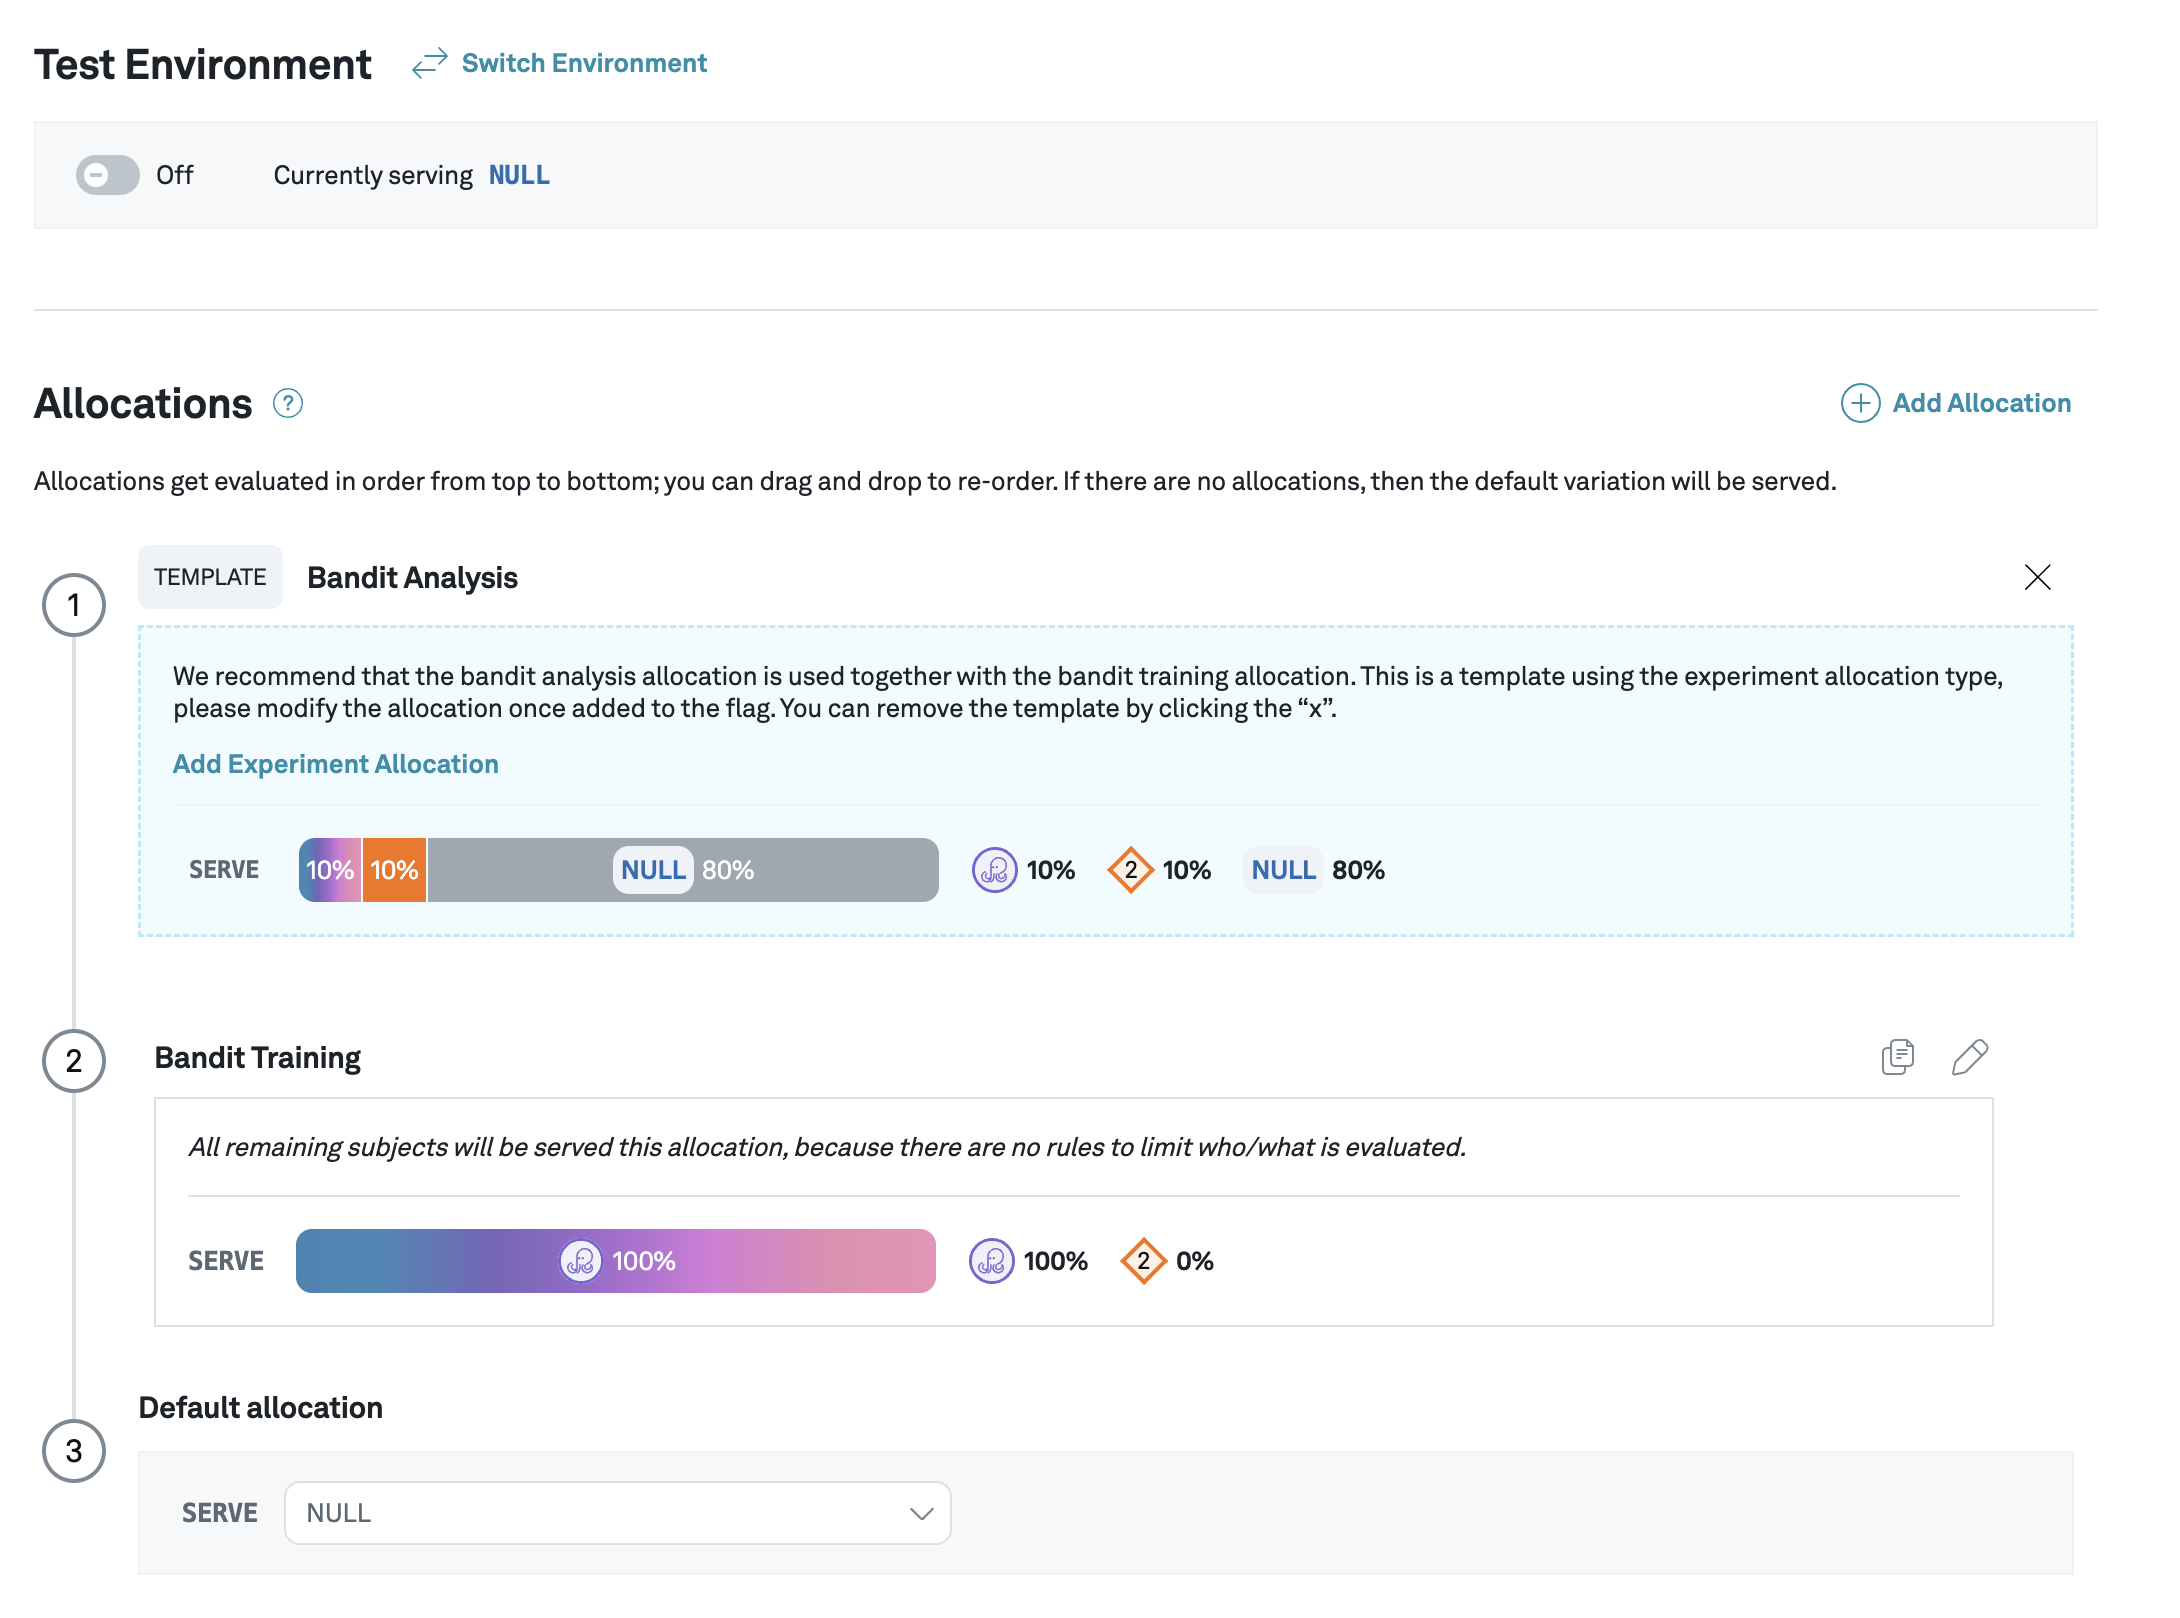
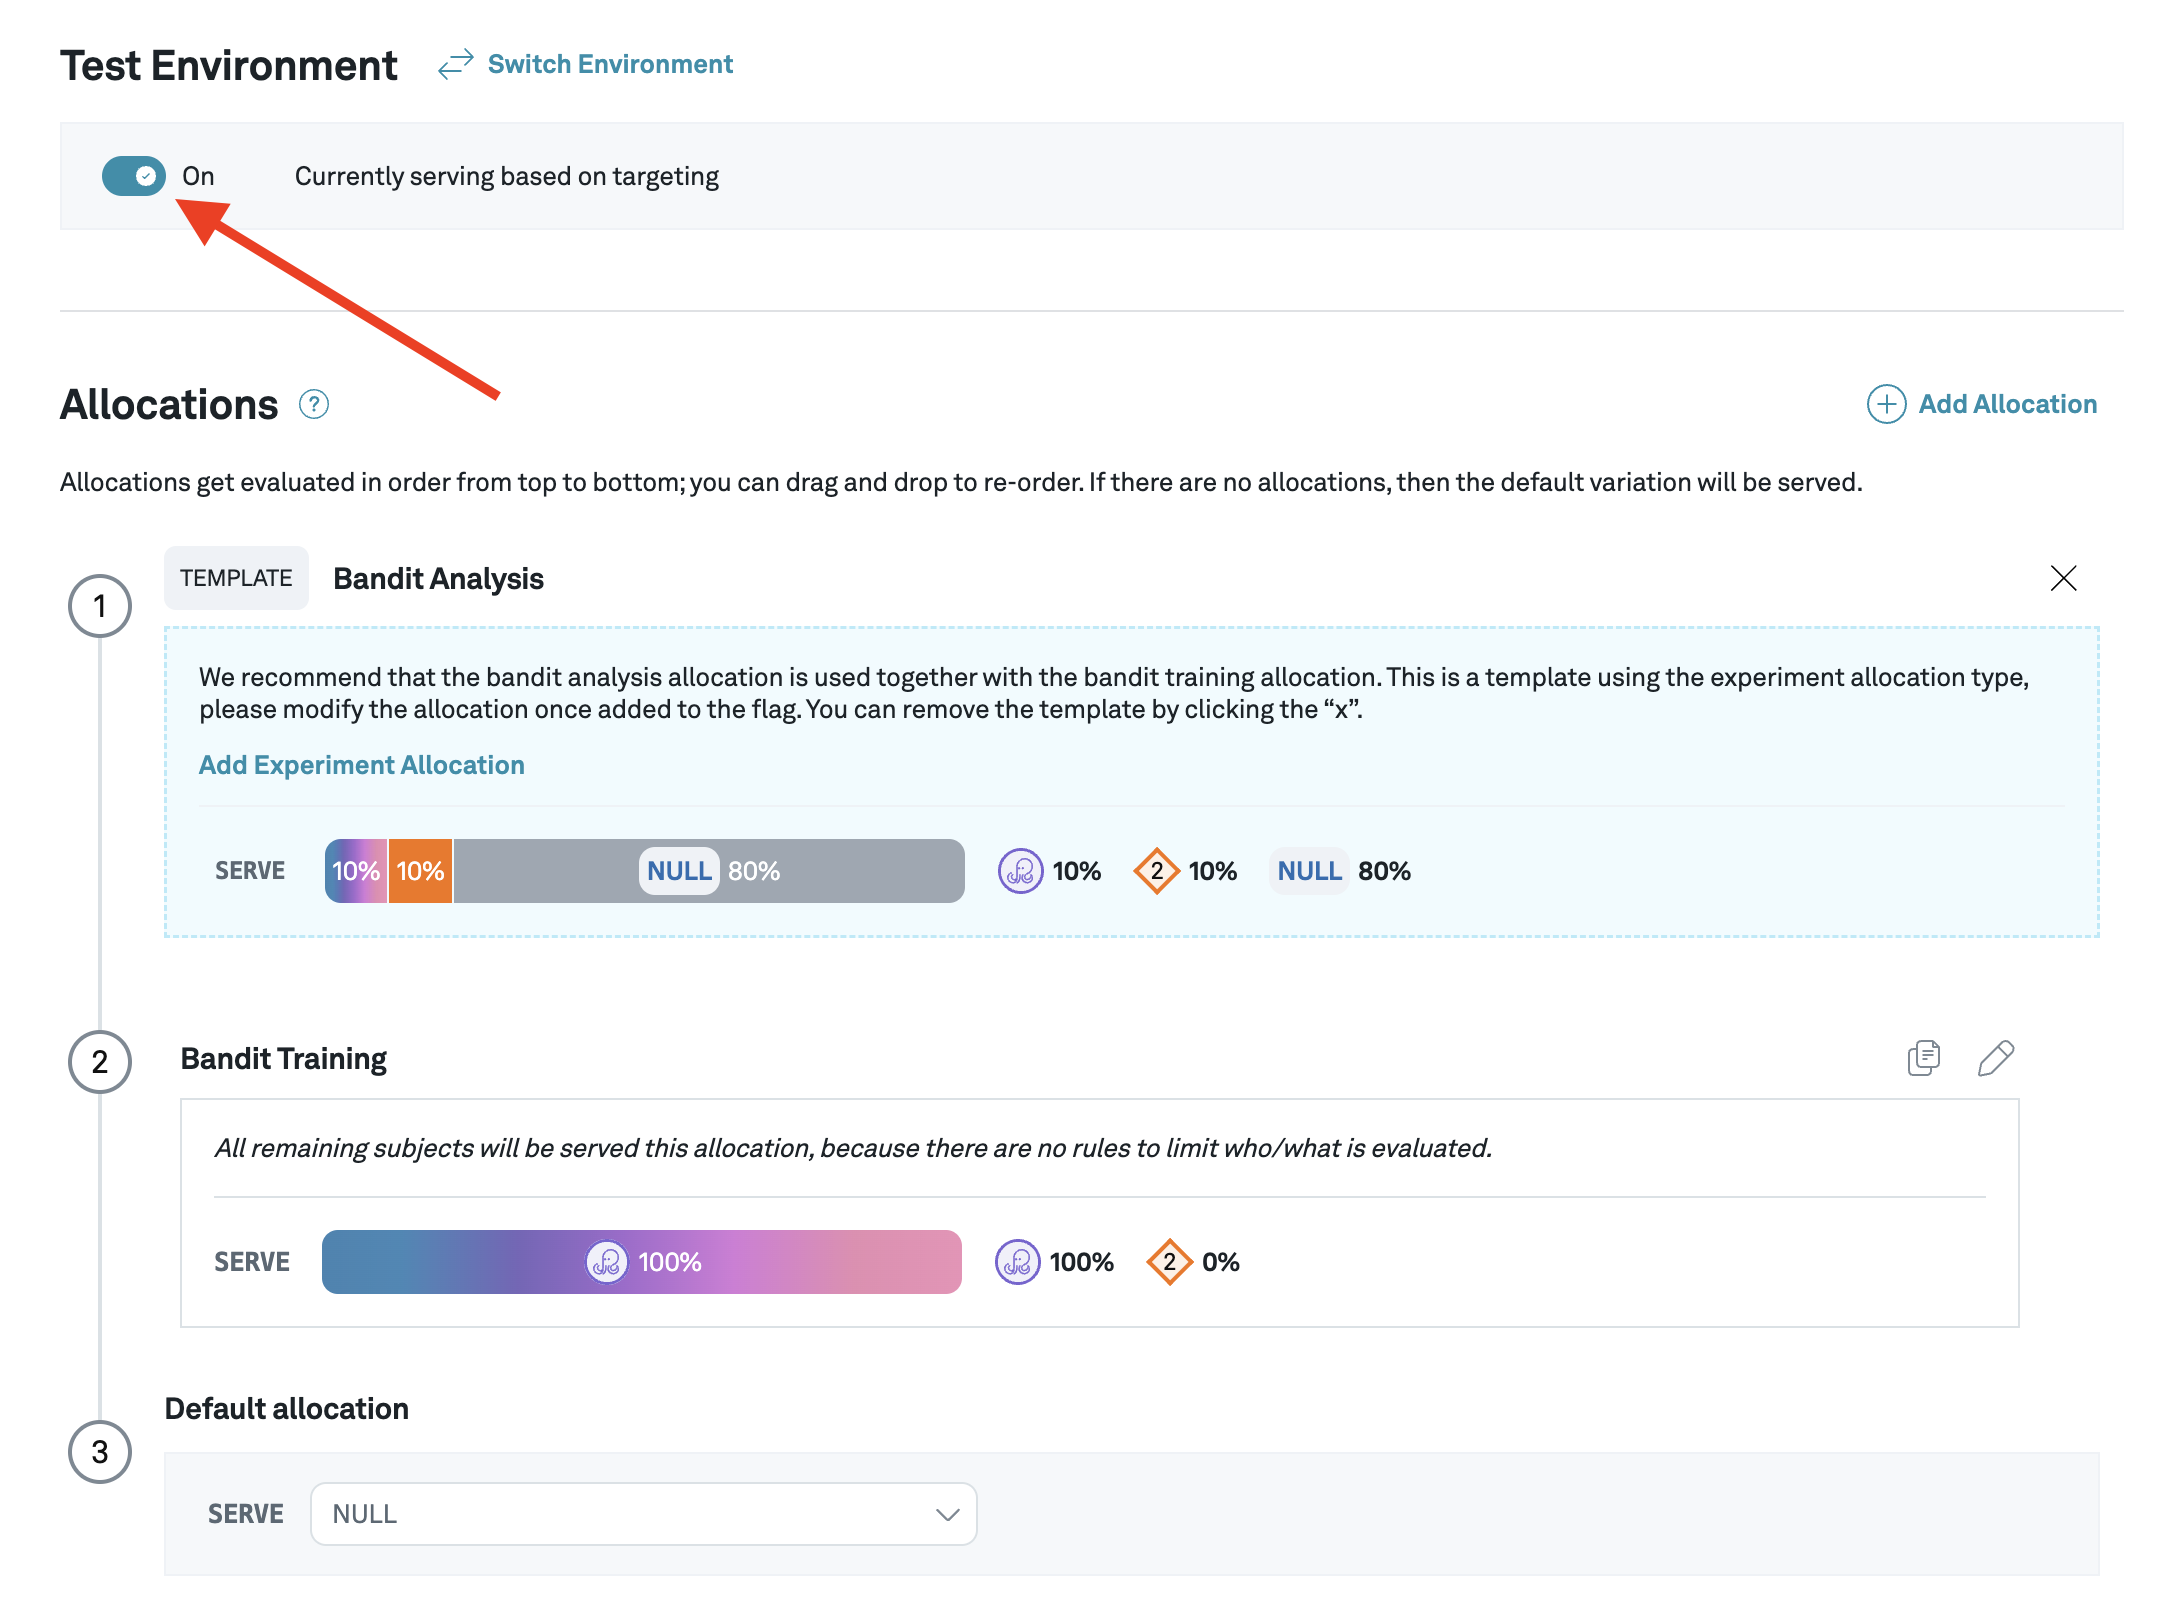
Added deploy to production section

diff --git a/docs/quick-starts/bandit-quickstart.md b/docs/quick-starts/bandit-quickstart.md
@@ -177,7 +177,7 @@ Using the template provided for Bandit Training, click `Add Feature Gate Allocat
 
 ![Add bandit training to the Test environment](/img/bandit/bandit-qs-3.png)
 
-### 8. Turn on the Bandit
+### 8. Turn the Bandit on in Test
 
 To start the Bandit, flip the flag on in the Test environment.
 
@@ -185,4 +185,16 @@ To start the Bandit, flip the flag on in the Test environment.
 
 You should now see assignments coming through the Eppo SDK!
 
-To deploy to production, create a new SDK key for the production environment, create a production experiment allocation, and enable the flag.
+### 9. Deploy to Production
+
+Complete these last steps to deploy your Bandit to Production:
+
+1. Create a new SDK key for the production environment from the SDK Keys tab
+2. In the Test environment, click the `Duplicate allocation` button next to Bandit Training and choose to copy it to Production
+![Copy the Bandit Training to Production](/img/bandit/bandit-qs-5.png)
+3. Switch to the Production environment using the environment switcher
+4. Using the template provided, click to add an experiment allocation for `Bandit Analysis`. This will allow you to measure the impact of your Bandit on a small percentage of traffic.
+![Production setup](/img/bandit/bandit-qs-6.png)
+5. Toggle the flag on in Production
+
+Congrats on running your first Bandit! As a next step, you can connect your flag to an Experiment Analysis so you can measure the impact your bandit is having on your product. See the [experiment quickstart guide](/experiment-quickstart) for more.
